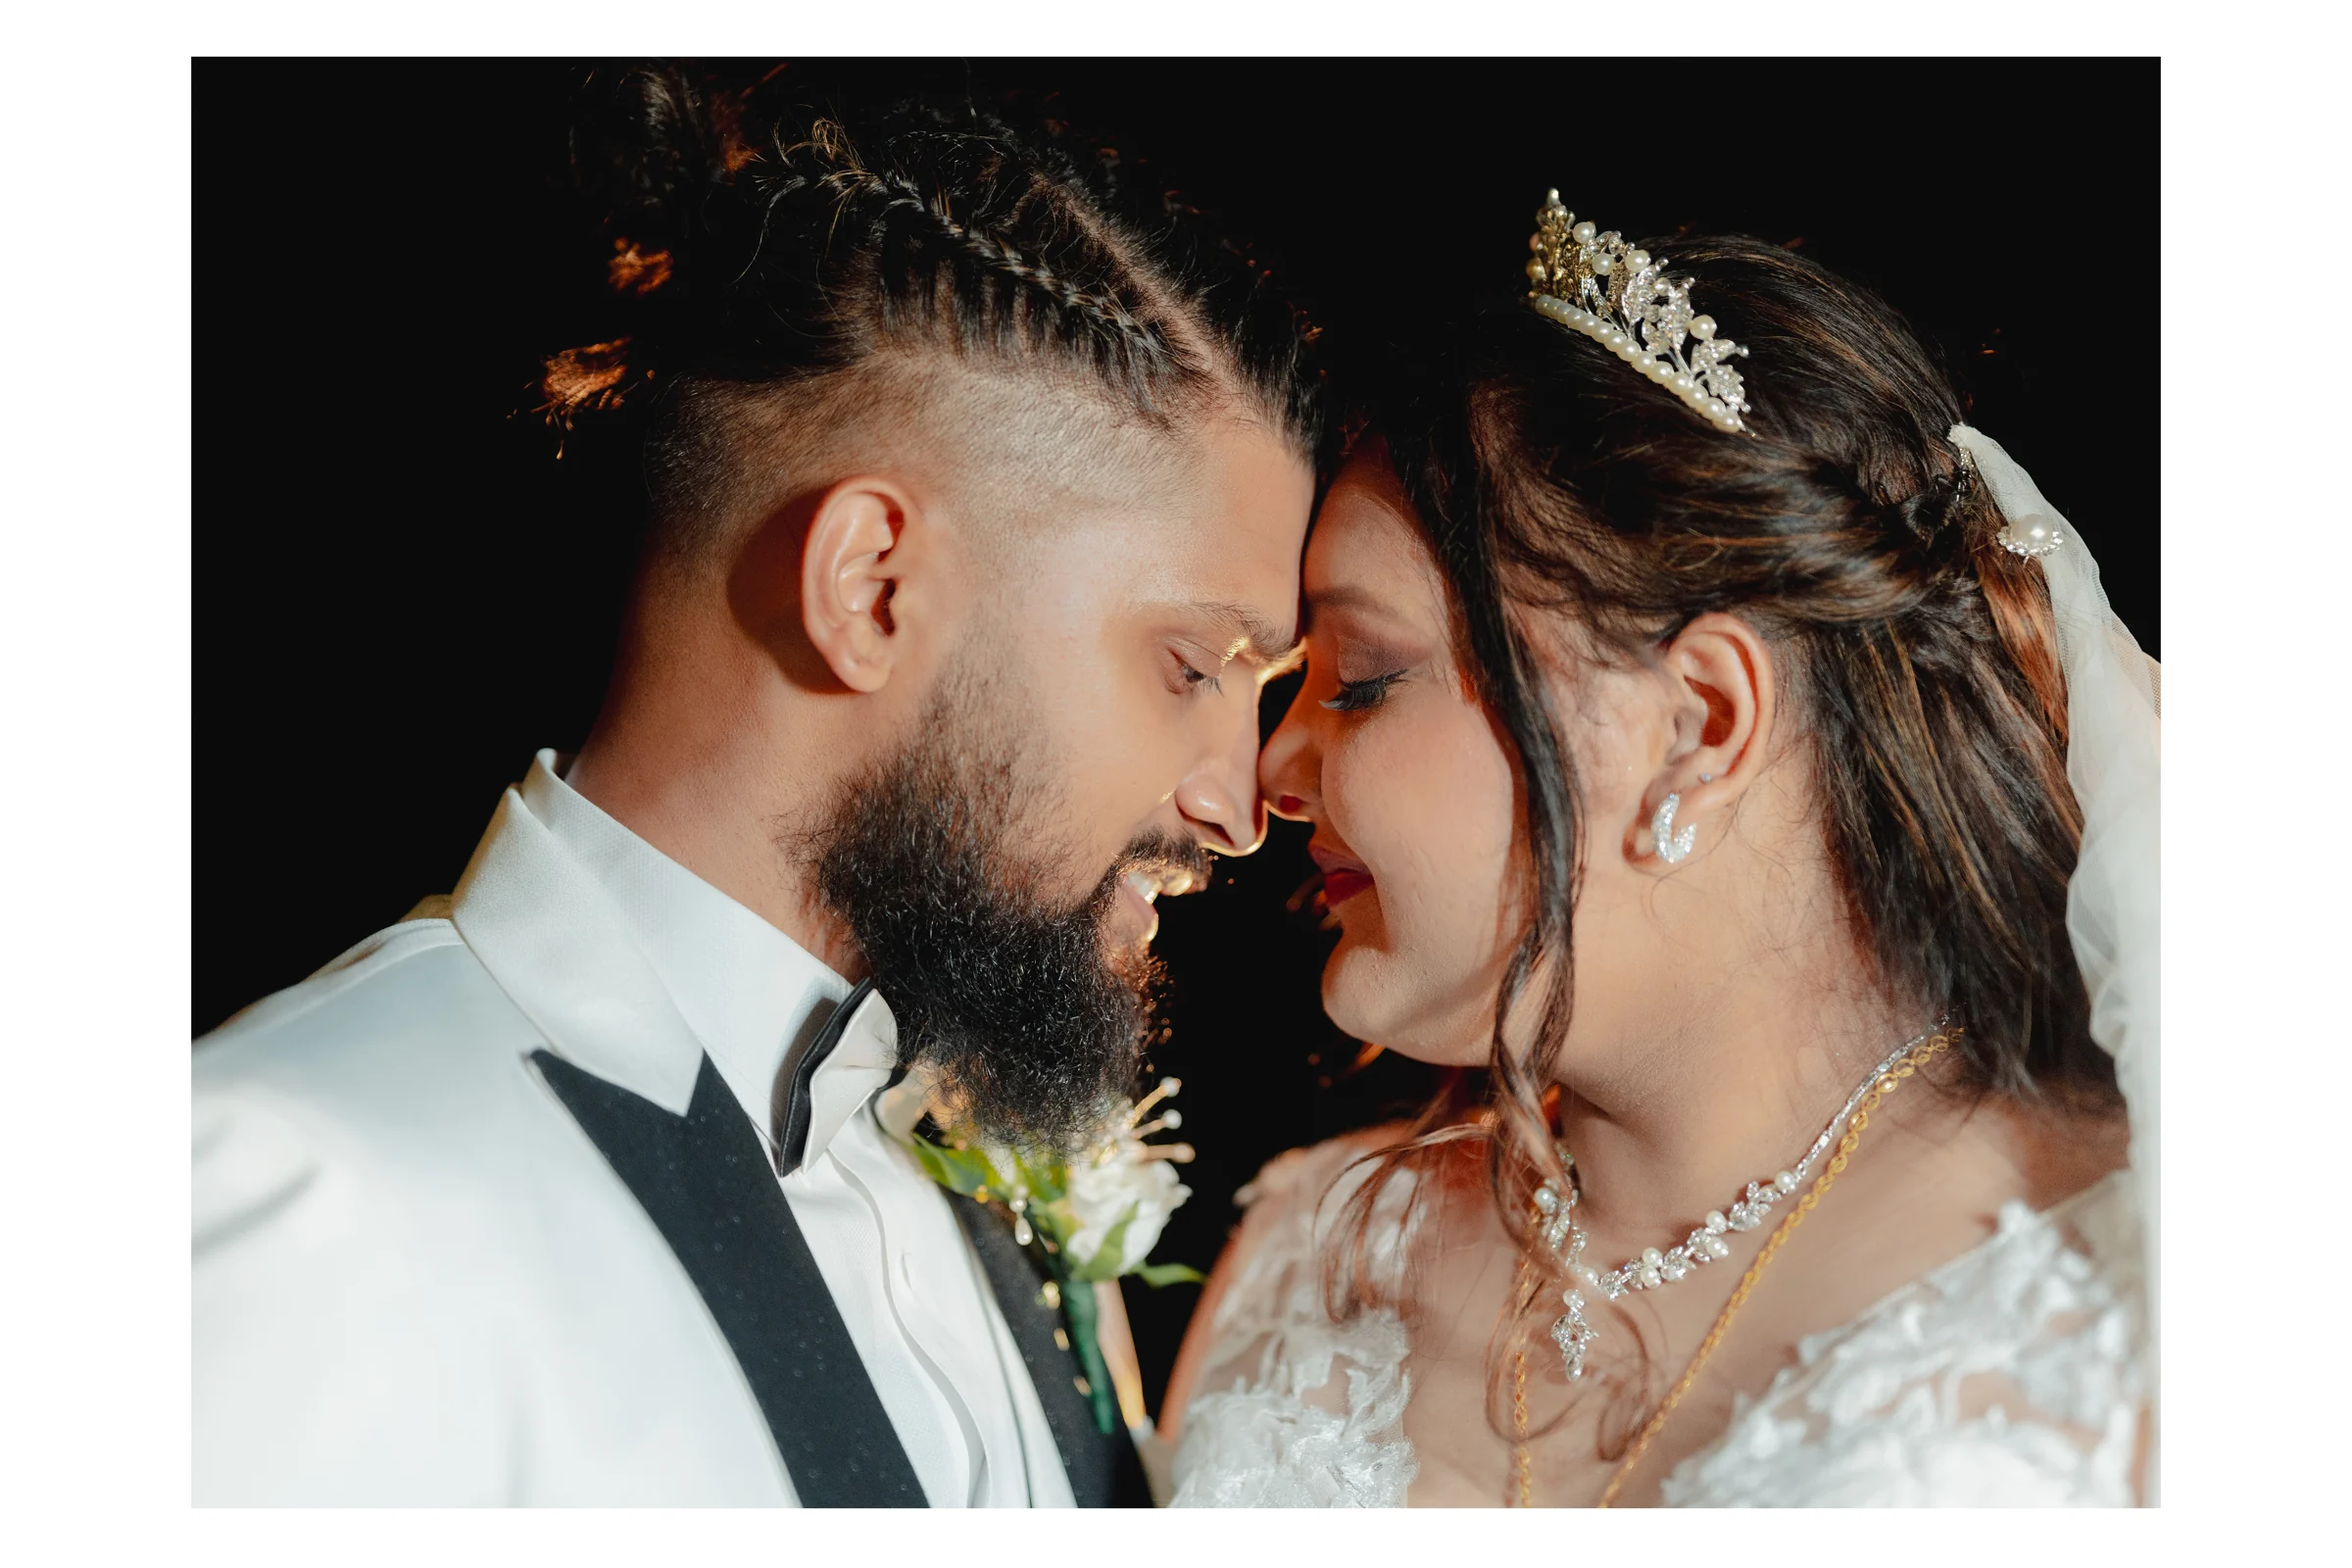
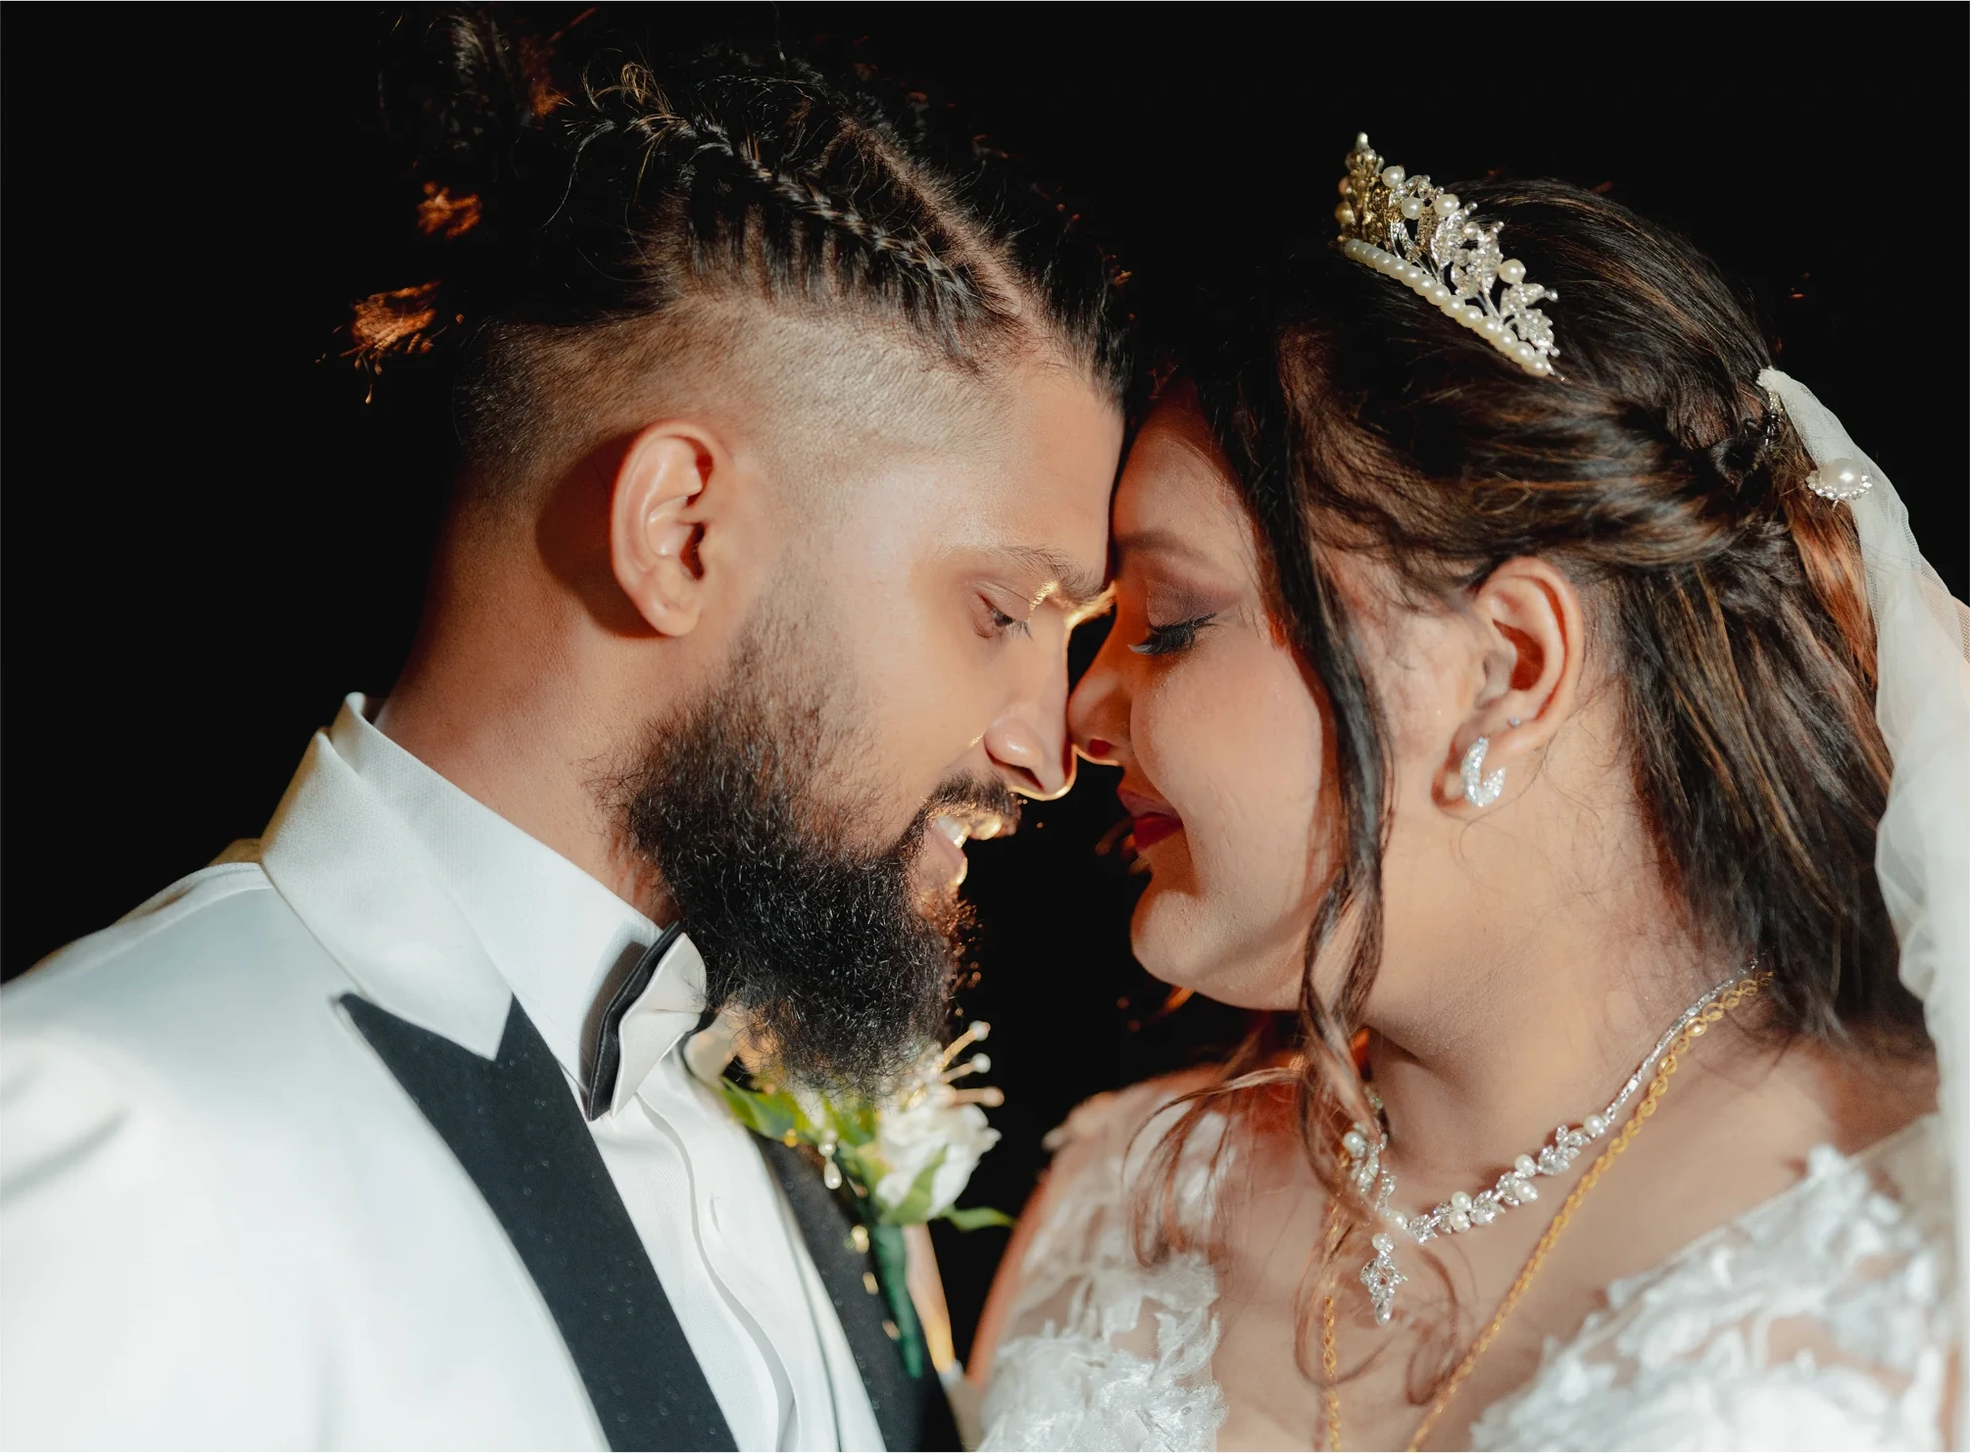
fix: refine collection order, photo borders and performance copy

diff --git a/app/globals.css b/app/globals.css
@@ -817,9 +817,9 @@ img {
     padding: 10px;
   }
   .hero {
-    height: calc(90svh - 80px);
+    height: calc(100svh - 80px);
     min-height: 570px;
-    max-height: 850px;
+    max-height: none;
   }
   .hero-photo {
     object-position: 55% center;
@@ -1108,16 +1108,6 @@ img {
       rgba(5, 9, 7, 0.35) 100%
     );
 }
-.hero::before {
-  content: "";
-  position: absolute;
-  inset: 0;
-  box-shadow:
-    inset 0 13px #181a17,
-    inset 0 -13px #181a17;
-  z-index: 3;
-  pointer-events: none;
-}
 .hero::after {
   content: "";
   position: absolute;
@@ -1206,11 +1196,6 @@ img {
   }
 }
 @media (max-width: 700px) {
-  .hero::before {
-    box-shadow:
-      inset 0 8px #181a17,
-      inset 0 -8px #181a17;
-  }
   .hero-shade {
     background:
       linear-gradient(

diff --git a/app/page.tsx b/app/page.tsx
@@ -75,13 +75,13 @@ export default function Home() {
       <section className="stories section">
         <div className="section-heading">
           <div>
-            <p className="eyebrow">A FEW PAGES FROM OUR DIARY</p>
+            <p className="eyebrow">CELEBRITY SHOOTS & LIVE PERFORMANCES</p>
             <h2>
-              Life, <em>beautifully framed.</em>
+              In the spotlight. <em>In the moment.</em>
             </h2>
           </div>
           <Link className="text-link" href="/portfolio">
-            Explore our work <ArrowUpRight size={17} />
+            Explore the highlights <ArrowUpRight size={17} />
           </Link>
         </div>
         <div className="featured-grid">
